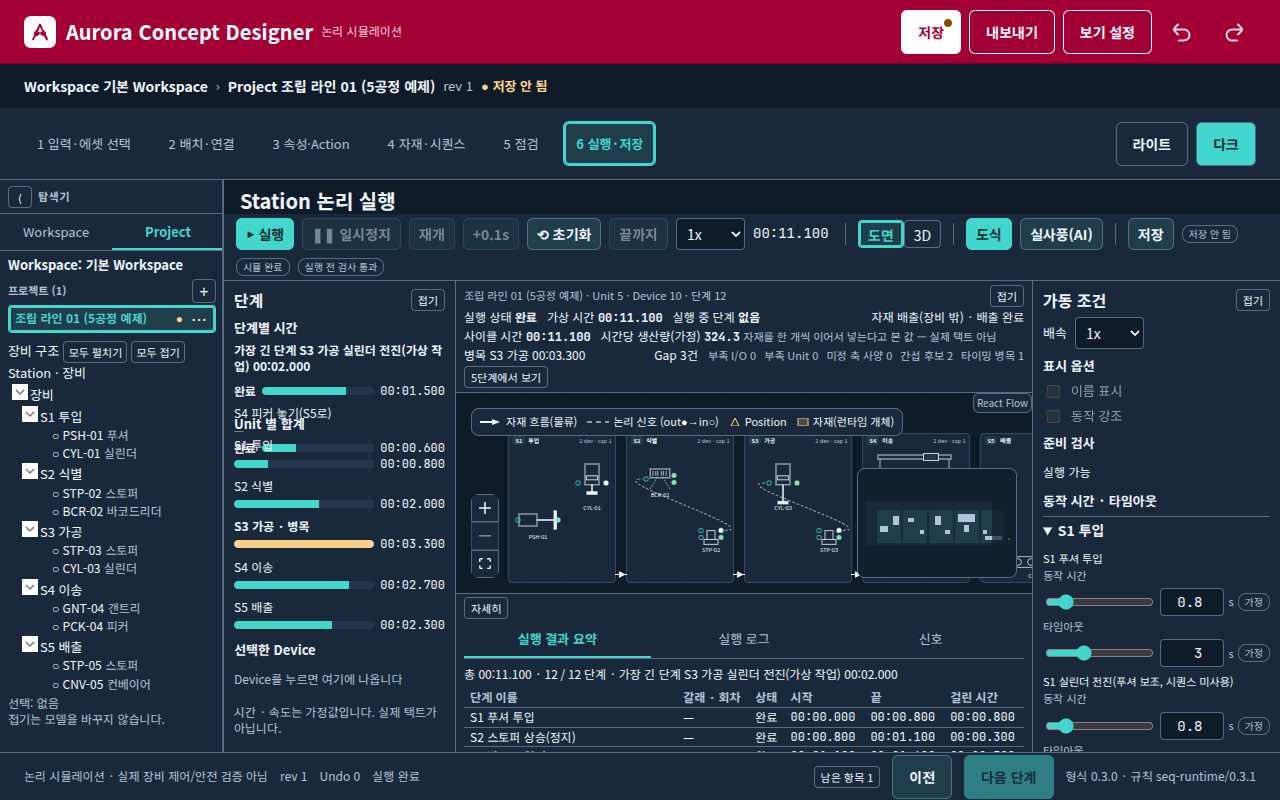
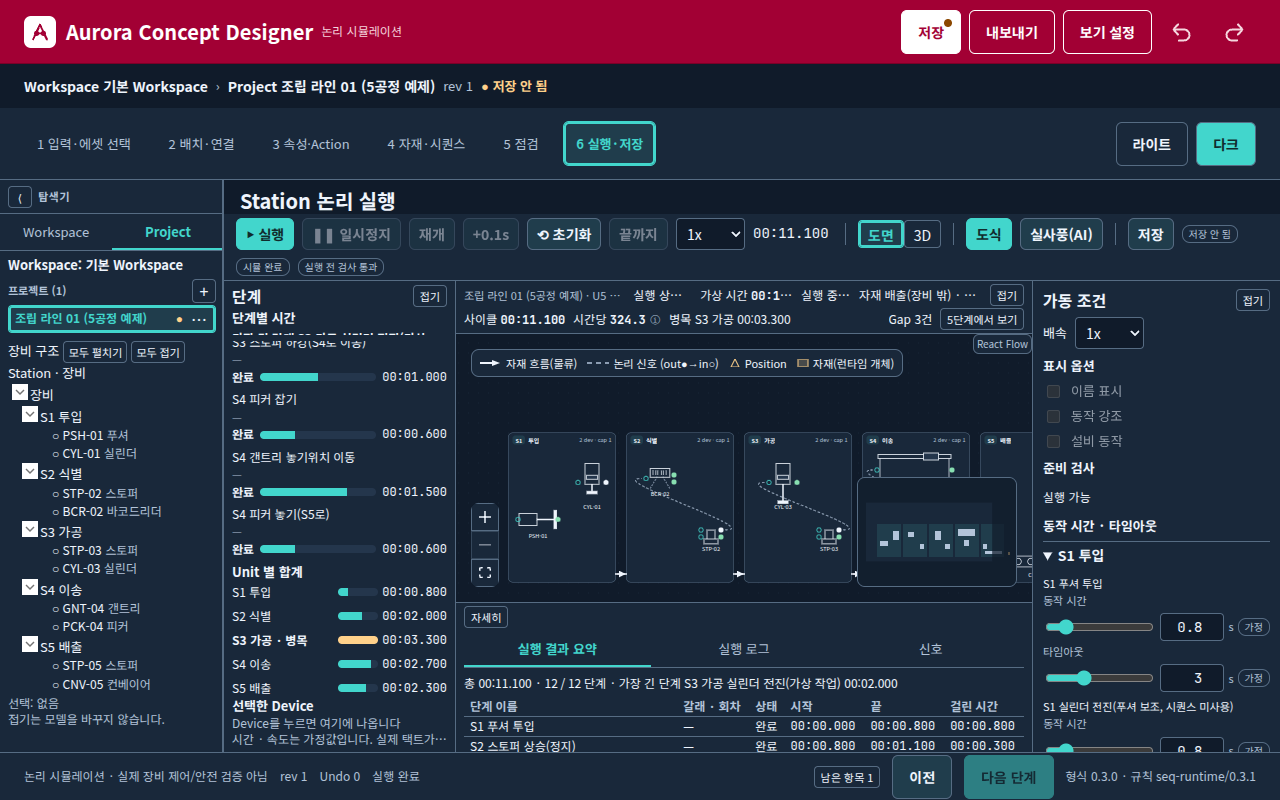
TURN-035: 단계 목록과 요약 띠 높이, 3D 다시 맞춤을 고친다
단계 목록이 남는 높이를 쓰고 Unit 합계와 겹치지 않게 한다. 요약 띠는 두 줄로 줄여 캔버스가 기준 높이를 넘기고, 칸 크기가 바뀌면 카메라를 움직이기 전에는 3D를 다시 맞춘다.

diff --git a/src/ui/run3d.css b/src/ui/run3d.css
@@ -3,29 +3,35 @@
 .app .ws-run.fold-steps { grid-template-columns: 40px minmax(0, 1fr) 248px; }
 .app .ws-run.fold-cond { grid-template-columns: 232px minmax(0, 1fr) 40px; }
 .app .ws-run.fold-steps.fold-cond { grid-template-columns: 40px minmax(0, 1fr) 40px; }
-.app .ws-run > .run-steps { overflow: hidden; background: var(--panel); border-right: 1px solid var(--border); padding: 8px 10px 12px; display: flex; flex-direction: column; }
+.app .ws-run > .run-steps { overflow: hidden; background: var(--panel); border-right: 1px solid var(--border); padding: 4px 8px 6px; display: flex; flex-direction: column; }
 .app .ws-run > .run-conditions { overflow: auto; background: var(--panel); border-left: 1px solid var(--border); padding: 8px 10px 12px; }
 .run-canvas .run-stage { display: flex; flex-direction: column; background: var(--canvas); outline: none; }
 
 .run3d-head { display: flex; align-items: center; justify-content: space-between; gap: 8px; flex: 0 0 auto; }
 .run-steps h2, .run-conditions h2 { margin: 0; font-size: 16px; }
-.run-steps h3 { margin: 8px 0 2px; }
+.run-steps h3 { margin: 2px 0; }
 .run-steps.is-folded, .run-conditions.is-folded { padding: 8px 4px; }
 .run-steps.is-folded h2, .run-conditions.is-folded h2 { display: none; }
 .run-steps h3, .run-conditions h3 { margin: 8px 0 4px; font-size: 13px; }
+.run-steps h3 { margin: 2px 0; }
+.run3d-longest { white-space: nowrap; overflow: hidden; text-overflow: ellipsis; }
 .run-steps p, .run-conditions p, .run-steps li, .run-conditions li { font-size: 12px; line-height: 1.35; }
-.run-steps-main { display: flex; flex-direction: column; flex: 1 1 auto; min-height: 0; }
-.run-steps-scroll { flex: 1 1 auto; min-height: 80px; overflow: auto; }
-.run-strip { flex: 0 0 auto; display: flex; flex-direction: column; gap: 2px; padding: 4px 8px; background: var(--panel); border-bottom: 1px solid var(--border); }
-.run-strip-top { display: flex; align-items: center; justify-content: space-between; gap: 8px; min-height: 22px; }
-.run-strip-id { margin: 0; color: var(--muted); font-size: 11px; min-width: 0; overflow: hidden; text-overflow: ellipsis; white-space: nowrap; }
-.run-strip-row { display: flex; flex-wrap: nowrap; align-items: baseline; gap: 2px 10px; font-size: 12px; line-height: 1.35; min-width: 0; }
+.run-steps-main { display: flex; flex-direction: column; flex: 1 1 auto; min-height: 0; overflow: hidden; }
+.run-steps-scroll { flex: 1 1 auto; min-height: 0; overflow: auto; }
+.run-steps-units { flex: 0 0 auto; max-height: 136px; overflow: auto; }
+.run-steps-units .run3d-bars.units li { grid-template-columns: minmax(0, 1fr) 40px auto; grid-template-areas: "name track time"; height: 18px; gap: 4px; }
+.run-steps [aria-label="선택한 Device"] h3,
+.run-steps [aria-label="선택한 Device"] p { margin: 0; }
+.run-steps .run3d-note { flex: 0 0 auto; margin: 0; line-height: 1.2; white-space: nowrap; overflow: hidden; text-overflow: ellipsis; }
+.run-strip { position: relative; flex: 0 0 auto; display: flex; flex-direction: column; gap: 0; max-height: 72px; overflow: hidden; padding: 2px 8px; background: var(--panel); border-bottom: 1px solid var(--border); }
+.run-strip.is-folded { max-height: 28px; }
+.run-strip-id { color: var(--muted); font-size: 11px; }
+.run-strip-row { display: flex; flex-wrap: nowrap; align-items: center; gap: 8px; height: 24px; min-width: 0; font-size: 12px; line-height: 24px; }
 .run-strip-row > span { min-width: 0; overflow: hidden; text-overflow: ellipsis; white-space: nowrap; }
 .run-strip-row > span:nth-child(3) { flex: 1 1 auto; }
-.run-strip-row.metrics { flex-wrap: wrap; }
-.run-strip-row.metrics > span { white-space: normal; overflow: visible; text-overflow: clip; }
-.run-strip-row small, .run-strip .run3d-gap-kinds { color: var(--muted); font-size: 11px; }
-.run-strip .run3d-gap-kinds { display: inline-flex; flex-wrap: wrap; gap: 2px 8px; }
+.run-strip-fold { flex: 0 0 auto; margin-left: auto; }
+.run-strip-tip { color: var(--muted); cursor: help; }
+.run-strip-sr { position: absolute; width: 1px; height: 1px; padding: 0; margin: -1px; overflow: hidden; clip: rect(0, 0, 0, 0); white-space: nowrap; border: 0; }
 .run3d-check.is-off { opacity: .55; }
 .run3d-name { font-weight: 700; margin: 0; }
 .run3d-counts, .run3d-note { color: var(--muted); margin: 4px 0; }
@@ -65,14 +71,13 @@
 .run3d-metric { margin: 0; font-size: 16px; font-weight: 700; overflow-wrap: anywhere; }
 .run3d-gap-kinds { list-style: none; margin: 0; padding: 0; display: flex; flex-wrap: wrap; gap: 2px 8px; }
 .run3d-gap-kinds li { padding: 0; overflow-wrap: anywhere; }
-.run-strip button.run3d-gap-open { height: 22px; white-space: normal; overflow-wrap: anywhere; }
+.run-strip button.run3d-gap-open { height: 22px; flex: 0 0 auto; white-space: nowrap; }
 .run3d-bars.units li { grid-template-columns: minmax(0, 1fr) auto; grid-template-areas: "name name" "track time"; }
 .run3d-bars.units li.is-bottleneck .run3d-bar-name { font-weight: 700; }
 .run3d-bars.units li.is-bottleneck .run3d-bar-fill { background: var(--warning); }
 
-.scene3d-bar { display: flex; align-items: center; gap: 8px; padding: 6px 10px; border-bottom: 1px solid var(--border); background: var(--panel); }
-.scene3d-bar button { flex: 0 0 auto; white-space: nowrap; }
-.scene3d-help { margin: 0; color: var(--muted); font-size: 12px; line-height: 1.35; }
+.scene3d-bar { display: flex; align-items: center; gap: 8px; height: 28px; padding: 0 8px; border-bottom: 1px solid var(--border); background: var(--panel); }
+.scene3d-bar button { flex: 0 0 auto; white-space: nowrap; height: 22px; }
 .scene3d-photo-note { margin: 0; padding: 6px 10px; font-size: 12px; line-height: 1.4; color: var(--text); background: color-mix(in srgb, var(--warning) 16%, var(--panel)); border-bottom: 1px solid var(--border); }
 .scene3d-host { flex: 1; min-height: 0; position: relative; }
 .scene3d-host canvas { display: block; width: 100%; height: 100%; }

diff --git a/src/ui/RunInfoPanel.tsx b/src/ui/RunInfoPanel.tsx
@@ -77,28 +77,28 @@ export function RunSummaryStrip({ p, rt, folded, onToggleFold, onOpenGaps }: {
   const full = info.running.map(runningText).join(', ');
   const shown = info.running.slice(0, RUNNING_SHOWN).map(runningText).join(', ');
   const extra = info.running.length - RUNNING_SHOWN;
+  const gapTitle = info.gapKinds.map((row) => `${row.label} ${row.count}`).join(' · ');
   return (
     <section className={`run-strip ${folded ? 'is-folded' : ''}`} aria-label="실행 요약">
-      <div className="run-strip-top">
-        {!folded && <p className="run-strip-id"><span data-project-name="">{info.projectName}</span> · Unit {info.unitCount} · Device {info.deviceCount} · 단계 {info.stepCount}</p>}
-        <button type="button" className="small" aria-label={folded ? '요약 펼치기' : '요약 접기'} onClick={onToggleFold}>{folded ? '펼치기' : '접기'}</button>
-      </div>
       <div className="run-strip-row">
+        {!folded && <span className="run-strip-id"><span data-project-name="">{info.projectName}</span> · U{info.unitCount} D{info.deviceCount} 단계{info.stepCount}</span>}
         <span>실행 상태 <b data-run-status={info.status}>{RUN_STATUS_KO[info.status] ?? info.status}</b></span>
         <span>가상 시간 <b className="mono" data-run-time="">{info.timeText}</b></span>
-        <span>실행 중 단계 <b data-running-count={info.running.length} title={full || undefined}>{info.running.length === 0 ? '없음' : shown}{extra > 0 ? ` 외 ${extra}` : ''}</b></span>
+        <span>실행 중 <b data-running-count={info.running.length} title={full || undefined}>{info.running.length === 0 ? '없음' : shown}{extra > 0 ? ` 외 ${extra}` : ''}</b></span>
         {!folded && <span data-material="">자재 {info.material ? `${info.material.where} · ${info.material.state || '상태 없음'}` : '없음'}</span>}
+        <button type="button" className="small run-strip-fold" aria-label={folded ? '요약 펼치기' : '요약 접기'} onClick={onToggleFold}>{folded ? '펼치기' : '접기'}</button>
       </div>
       {!folded && <div className="run-strip-row metrics">
-        <span>사이클 시간 <b className="mono" data-cycle-time="" aria-label="사이클 시간">{info.cycleText}</b></span>
-        <span title={info.throughputNote}>시간당 생산량(가정) <b className="mono" data-throughput="" aria-label="시간당 생산량">{info.throughputText}</b> <small data-throughput-note="">{info.throughputNote}</small></span>
+        <span>사이클 <b className="mono" data-cycle-time="" aria-label="사이클 시간">{info.cycleText}</b></span>
+        <span title={info.throughputNote}>시간당 <b className="mono" data-throughput="" aria-label="시간당 생산량">{info.throughputText}</b> <span className="run-strip-tip" title={info.throughputNote}>ⓘ</span></span>
         {info.bottleneck
           ? <span data-bottleneck={info.bottleneck.unitId} aria-label="병목 Unit">병목 {info.bottleneck.name} {info.bottleneck.timeText}</span>
           : <span className="muted">Unit 없음</span>}
-        <span data-gap-total={info.gapTotal} aria-label="Gap 건수">Gap {info.gapTotal}건</span>
-        <span className="run3d-gap-kinds">{info.gapKinds.map((row) => <span key={row.kind} data-gap-kind={row.kind} data-gap-count={row.count}>{row.label} {row.count}</span>)}</span>
+        <span data-gap-total={info.gapTotal} aria-label="Gap 건수" title={gapTitle}>Gap {info.gapTotal}건</span>
         <button type="button" className="small run3d-gap-open" aria-label="5단계에서 보기" onClick={onOpenGaps}>5단계에서 보기</button>
       </div>}
+      <span className="run-strip-sr" data-throughput-note="">{info.throughputNote}</span>
+      <span className="run-strip-sr run3d-gap-kinds">{info.gapKinds.map((row) => <span key={row.kind} data-gap-kind={row.kind} data-gap-count={row.count}>{row.label} {row.count}</span>)}</span>
     </section>
   );
 }
@@ -145,7 +145,7 @@ export function RunStepsPanel({ p, rt, selectedId, folded, onToggleFold }: {
             ))}
           </ul>
         </section>
-        <section aria-label="Unit 별 합계">
+        <section className="run-steps-units" aria-label="Unit 별 합계">
           <h3>Unit 별 합계</h3>
           <ul className="run3d-bars units">
             {info.unitTotals.map((row) => (

diff --git a/src/ui/Scene3D.tsx b/src/ui/Scene3D.tsx
@@ -660,15 +660,16 @@ export function Scene3D({ scene, showNames, emphasize, visualMode, equipmentMoti
     moved.current = true;
     setCam(fn);
   }, []);
+  const fittedSize = useRef({ width: 0, height: 0 });
   const onView = (width: number, height: number) => {
     viewSize.current = { width, height };
-    const aspect = width / Math.max(1, height);
-    setCam((c) => {
-      if (moved.current) return Math.abs(c.aspect - aspect) < 0.01 ? c : { ...c, aspect };
-      const next = framed(aspect, { width, height });
-      if (Math.abs(next.distance - c.distance) < 0.5 && Math.abs(next.targetX - c.targetX) < 0.5 && Math.abs(next.aspect - c.aspect) < 0.01) return c;
-      return next;
-    });
+    if (width < 2 || height < 2) return;
+    if (Math.abs(width - fittedSize.current.width) < 2 && Math.abs(height - fittedSize.current.height) < 2) return;
+    fittedSize.current = { width, height };
+    const aspect = width / height;
+    setCam((c) => (moved.current
+      ? (Math.abs(c.aspect - aspect) < 0.01 ? c : { ...c, aspect })
+      : framed(aspect, { width, height })));
   };
   const onKey = (e: KeyboardEvent<HTMLDivElement>) => {
     const tag = (e.target as HTMLElement).tagName;
@@ -691,9 +692,8 @@ export function Scene3D({ scene, showNames, emphasize, visualMode, equipmentMoti
       data-visual-style={visualMode} data-show-names={showNames ? 'on' : 'off'} data-floor-names={showNames ? scene.floorNames.length : 0}
       data-equipment-motion={equipmentMotion ? 'on' : 'off'} data-redraw={shouldRedraw({ running, interacting: false }) ? 'live' : 'still'}
       data-camera-yaw={cam.yaw.toFixed(3)} data-camera-pitch={cam.pitch.toFixed(3)} data-camera-distance={cam.distance.toFixed(1)}>
-      <div className="scene3d-bar">
-        <button type="button" aria-label="전체 보기" onClick={() => { moved.current = false; setCam(framed(viewSize.current.width / Math.max(1, viewSize.current.height), viewSize.current)); }}>전체 보기</button>
-        <p className="scene3d-help">끌어서 회전 · 오른쪽 끌기 또는 Shift+끌기 이동 · 휠 확대 · 화살표 회전 · +/− 확대 · Home 전체 보기</p>
+      <div className="scene3d-bar" title="끌어서 회전 · 오른쪽 끌기 또는 Shift+끌기 이동 · 휠 확대 · 화살표 회전 · +/− 확대 · Home 전체 보기">
+        <button type="button" aria-label="전체 보기" title="끌어서 회전 · 오른쪽 끌기 또는 Shift+끌기 이동 · 휠 확대 · 화살표 회전 · +/− 확대 · Home 전체 보기" onClick={() => { moved.current = false; fittedSize.current = { width: 0, height: 0 }; setCam(framed(viewSize.current.width / Math.max(1, viewSize.current.height), viewSize.current)); }}>전체 보기</button>
       </div>
       {visualMode === 'photo' && <p className="scene3d-photo-note">{PHOTO_NOTE}</p>}
       {gl

diff --git a/src/ui/styles.css b/src/ui/styles.css
@@ -845,7 +845,7 @@ button.on,
 .run-canvas .run-stage { flex: 1 1 auto; height: auto; min-height: 0; width: 100%; }
 .run-canvas .diagram-canvas { border: 0; border-radius: 0; }
 .run-details { flex: 0 0 auto; min-height: 0; border-top: 1px solid var(--border); background: var(--panel); display: flex; flex-direction: column; }
-.run-details.is-open { flex: 0 1 220px; min-height: 0; overflow: hidden; }
+.run-details.is-open { flex: 0 1 150px; max-height: 150px; min-height: 0; overflow: hidden; }
 .run-details-head { display: flex; align-items: center; gap: 8px; min-height: 28px; padding: 2px 8px; }
 .run-details-last { min-width: 0; overflow: hidden; text-overflow: ellipsis; white-space: nowrap; color: var(--muted); font-size: 12px; }
 .run-details-body { flex: 1 1 auto; min-height: 0; overflow: auto; padding: 0 8px 8px; }

diff --git a/tests/ui-turn035.test.tsx b/tests/ui-turn035.test.tsx
@@ -223,7 +223,11 @@ describe('TURN-035 unified run layout', () => {
 
   it('AC6 the canvas keeps a 200px floor in the stylesheet', () => {
     expect(styles).toMatch(/\.run-canvas\s*\{[^}]*min-height:\s*200px/);
-    expect(styles).toMatch(/\.run-details\.is-open\s*\{[^}]*flex:\s*0 1 220px/);
+    expect(styles).toMatch(/\.run-details\.is-open\s*\{[^}]*max-height:\s*150px/);
+    const runCss = readFileSync('src/ui/run3d.css', 'utf8');
+    expect(runCss).toMatch(/\.run-steps-scroll\s*\{[^}]*overflow:\s*auto/);
+    expect(runCss).toMatch(/\.run-steps-units\s*\{[^}]*max-height:\s*136px/);
+    expect(runCss).toMatch(/\.run-strip\s*\{[^}]*max-height:\s*72px/);
   });
 
   it('AC7 a running row uses the selected fill, and error and stopped rows use other edges', async () => {

diff --git a/tests/ui-turn033.test.tsx b/tests/ui-turn033.test.tsx
@@ -214,7 +214,7 @@ describe('TURN-033 3D info and timeout', () => {
     expect(css).toMatch(/\.run3d-metric\s*\{[^}]*overflow-wrap:\s*anywhere/);
     expect(css).toMatch(/\.run3d-gap-kinds li\s*\{[^}]*overflow-wrap:\s*anywhere/);
     expect(css).toMatch(/\.run3d-timeout-warn\s*\{[^}]*overflow-wrap:\s*anywhere/);
-    expect(css).toMatch(/\.run3d-gap-open\s*\{[^}]*white-space:\s*normal/);
+    expect(css).toMatch(/\.run3d-gap-open\s*\{[^}]*white-space:\s*nowrap/);
     expect(css).toContain('grid-template-columns: 232px minmax(0, 1fr) 248px');
     const name = u.el.querySelector('.run-steps .run3d-bars.units .run3d-bar-name') as HTMLElement;
     expect(getComputedStyle(name).overflowWrap).toBe('anywhere');

diff --git a/tests/ui-turn029.test.tsx b/tests/ui-turn029.test.tsx
@@ -224,6 +224,6 @@ describe('TURN-029 3D run view', () => {
     expect(u.el.querySelector('[aria-label="이름 표시"]')).not.toBeNull();
     expect(u.el.querySelector('[aria-label="동작 강조"]')).not.toBeNull();
     expect(u.el.querySelector('[aria-label="S1 푸셔 투입 동작 시간"]')).not.toBeNull();
-    expect(u.el.textContent).toContain('화살표 회전');
+    expect(u.el.querySelector('.scene3d-bar')!.getAttribute('title')).toContain('화살표 회전');
   });
 });
